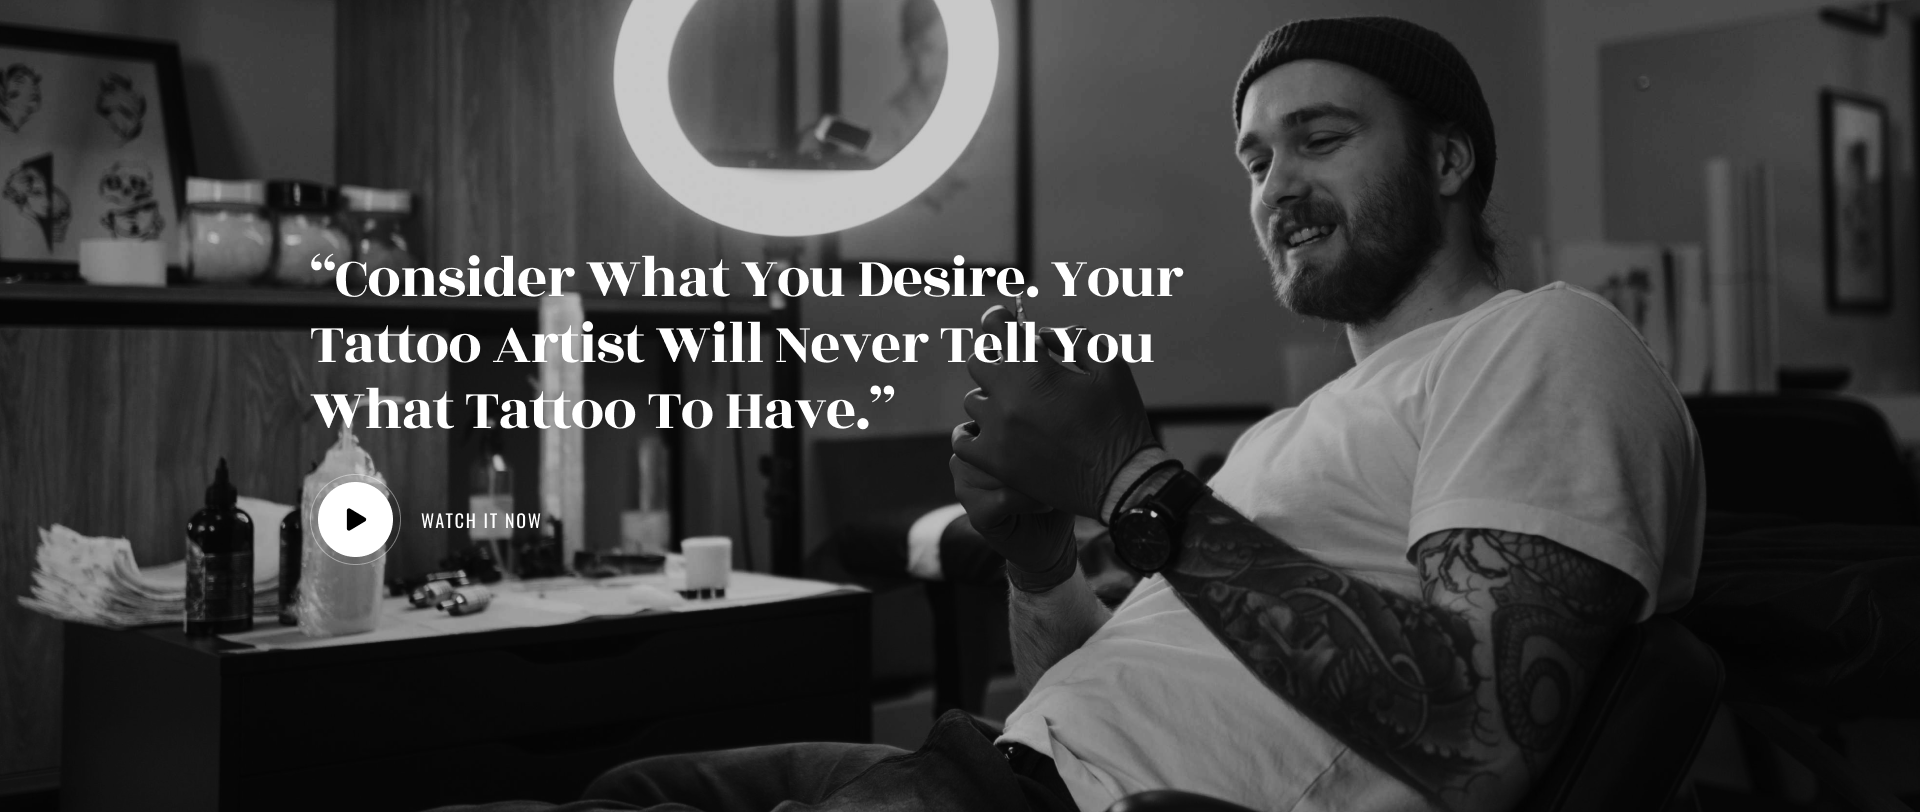
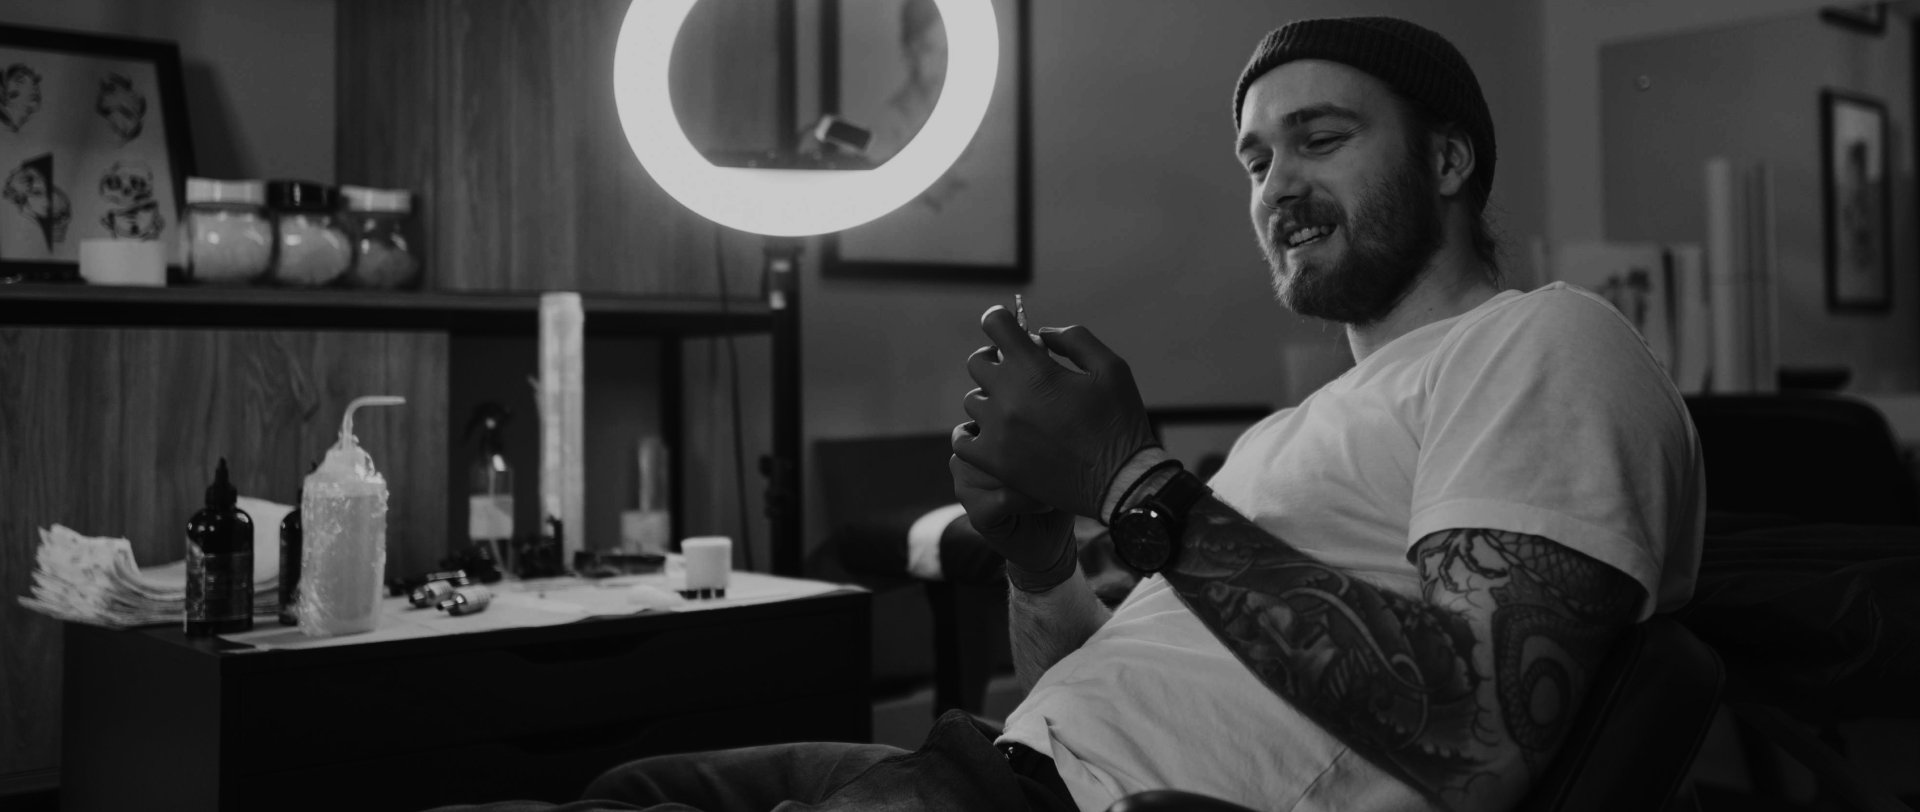
added

Changed region(s): [[0.1562, 0.4002, 0.625, 0.5234], [0.1562, 0.3079, 0.625, 0.3695], [0.1562, 0.585, 0.2812, 0.7081]]

diff --git a/src/components/Interview.js b/src/components/Interview.js
@@ -1,0 +1,32 @@
+import React, { useState } from 'react';
+// import modal video
+import ModalVideo from 'react-modal-video';
+// import modal video css
+import '../modalVideo.scss';
+
+const Interview = () => {
+  const [isOpen, setOpen] = useState(false);
+  return (
+    <section className='bg-dark bg-interview bg-no-repeat bg-cover h-[812px]'>
+      <div className='container mx-auto'>
+        <h3 className='text-white text-[60px] leading-none font-tertiary -tracking-[1.5px]'>
+          “Consider what you desire. Your tattoo artist will never tell you what
+          tattoo to have.”
+        </h3>
+        <button className='text-white' onClick={() => setOpen(true)}>
+          VIEW DEMO
+        </button>
+        {/* modal video */}
+        <ModalVideo
+          channel='youtube'
+          autoplay
+          isOpen={isOpen}
+          videoId='_l1mqYQuNf8'
+          onClose={() => setOpen(false)}
+        />
+      </div>
+    </section>
+  );
+};
+
+export default Interview;

diff --git a/src/App.js b/src/App.js
@@ -6,6 +6,7 @@ import Header from './components/Header';
 import About from './components/About';
 import GallerySection from './components/GallerySection';
 import Skills from './components/Skills';
+import Interview from './components/Interview';
 
 const App = () => {
   return (
@@ -15,6 +16,7 @@ const App = () => {
       <About />
       <GallerySection />
       <Skills />
+      <Interview />
       <div className='h-[4000px]'></div>
     </div>
   );

diff --git a/tailwind.config.js b/tailwind.config.js
@@ -29,6 +29,7 @@ module.exports = {
       backgroundImage: {
         hero: "url('/src/img/hero/bg.jpg')",
         about: "url('/src/img/about/image.png')",
+        interview: "url('/src/img/interview/bg.png')",
       },
       content: {
         outlineText: 'url("/src/img/hero/outline-text.svg")',

diff --git a/src/modalVideo.scss b/src/modalVideo.scss
@@ -1,0 +1,1 @@
+@import '../node_modules/react-modal-video/scss/modal-video.scss';
